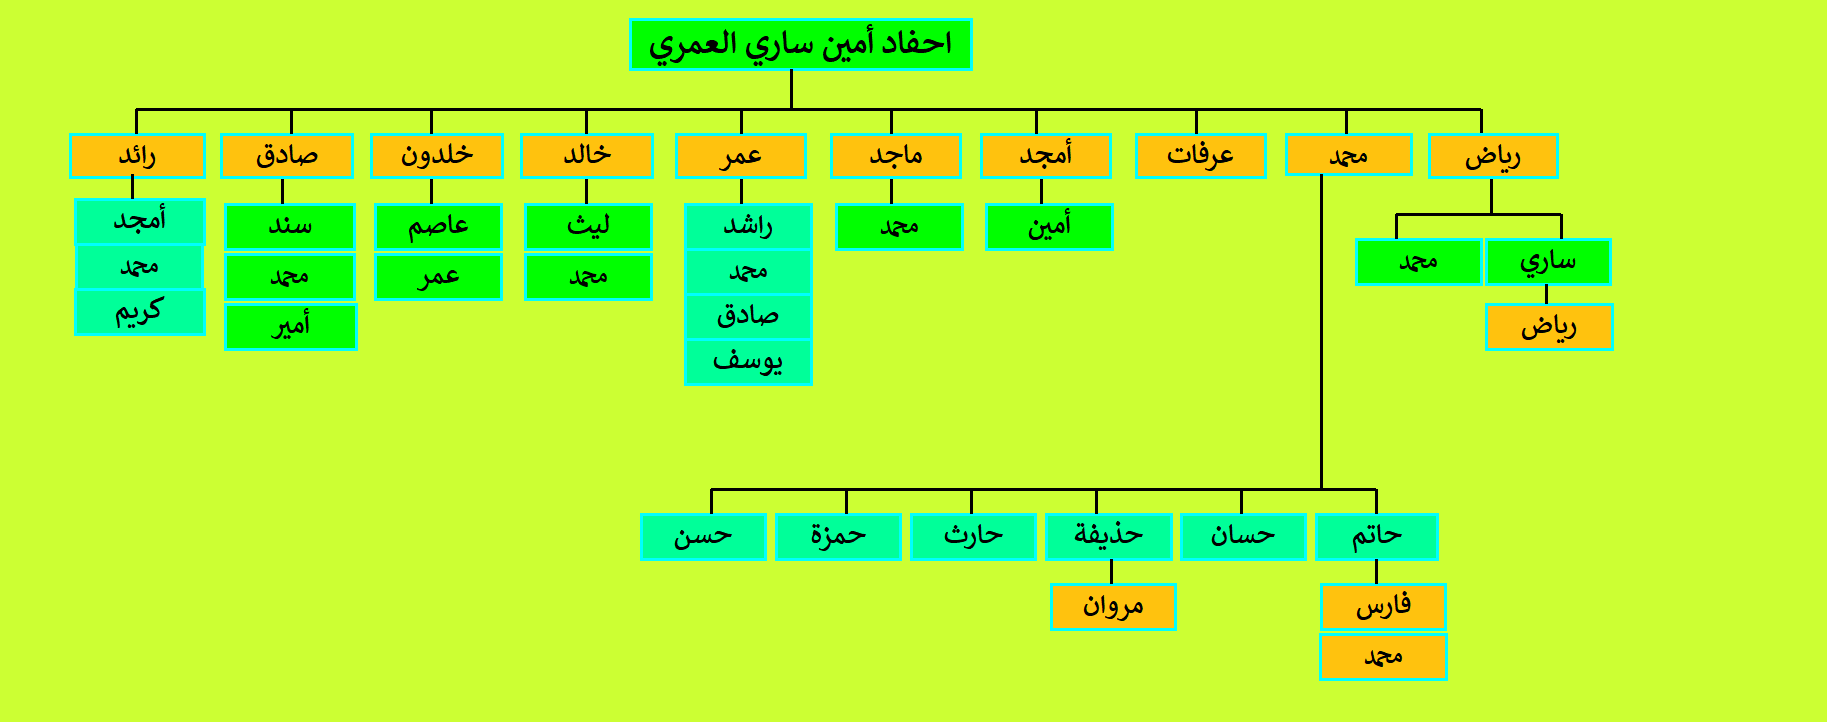
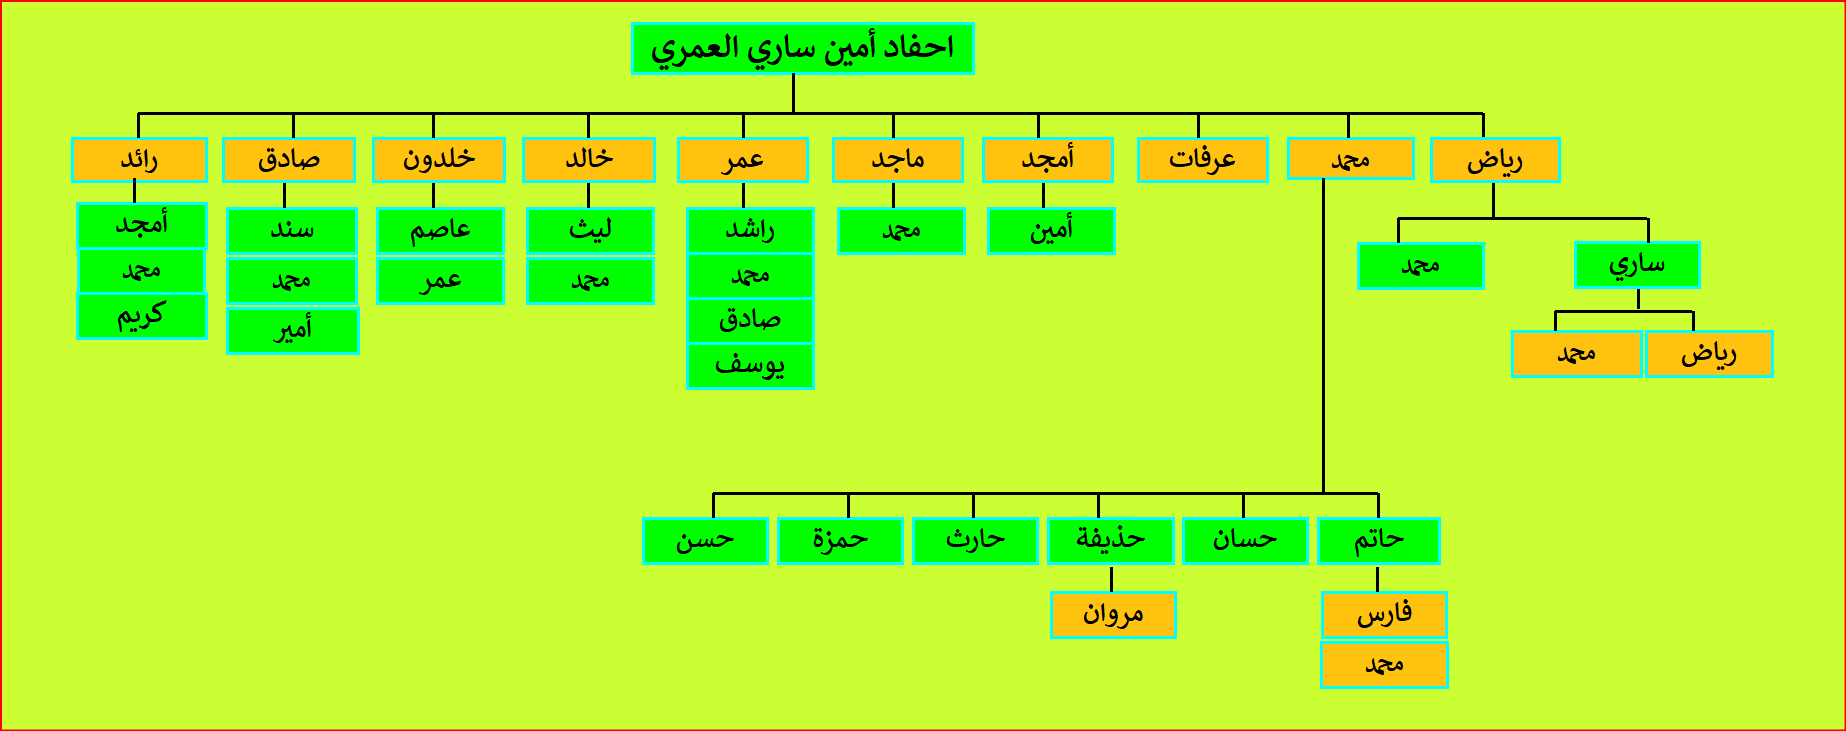
update

diff --git a/ahmad-abdu-sons.html b/ahmad-abdu-sons.html
@@ -30,7 +30,7 @@ function FP_getObjectByID(id,o) {//v1.0
 </script>
 </head>
 
-<body onload="FP_preloadImgs(/*url*/'button974.gif',/*url*/'button975.gif')" style="background-color: #DEFF81">
+<body onload="FP_preloadImgs(/*url*/'button974.gif',/*url*/'button975.gif')" style="background-color: #CCFF33">
 
 <div id="layer1" style="position: absolute; width: 113px; height: 36px; z-index: 1; left: 17px; top: 20px">
 	<a href="index.html">
